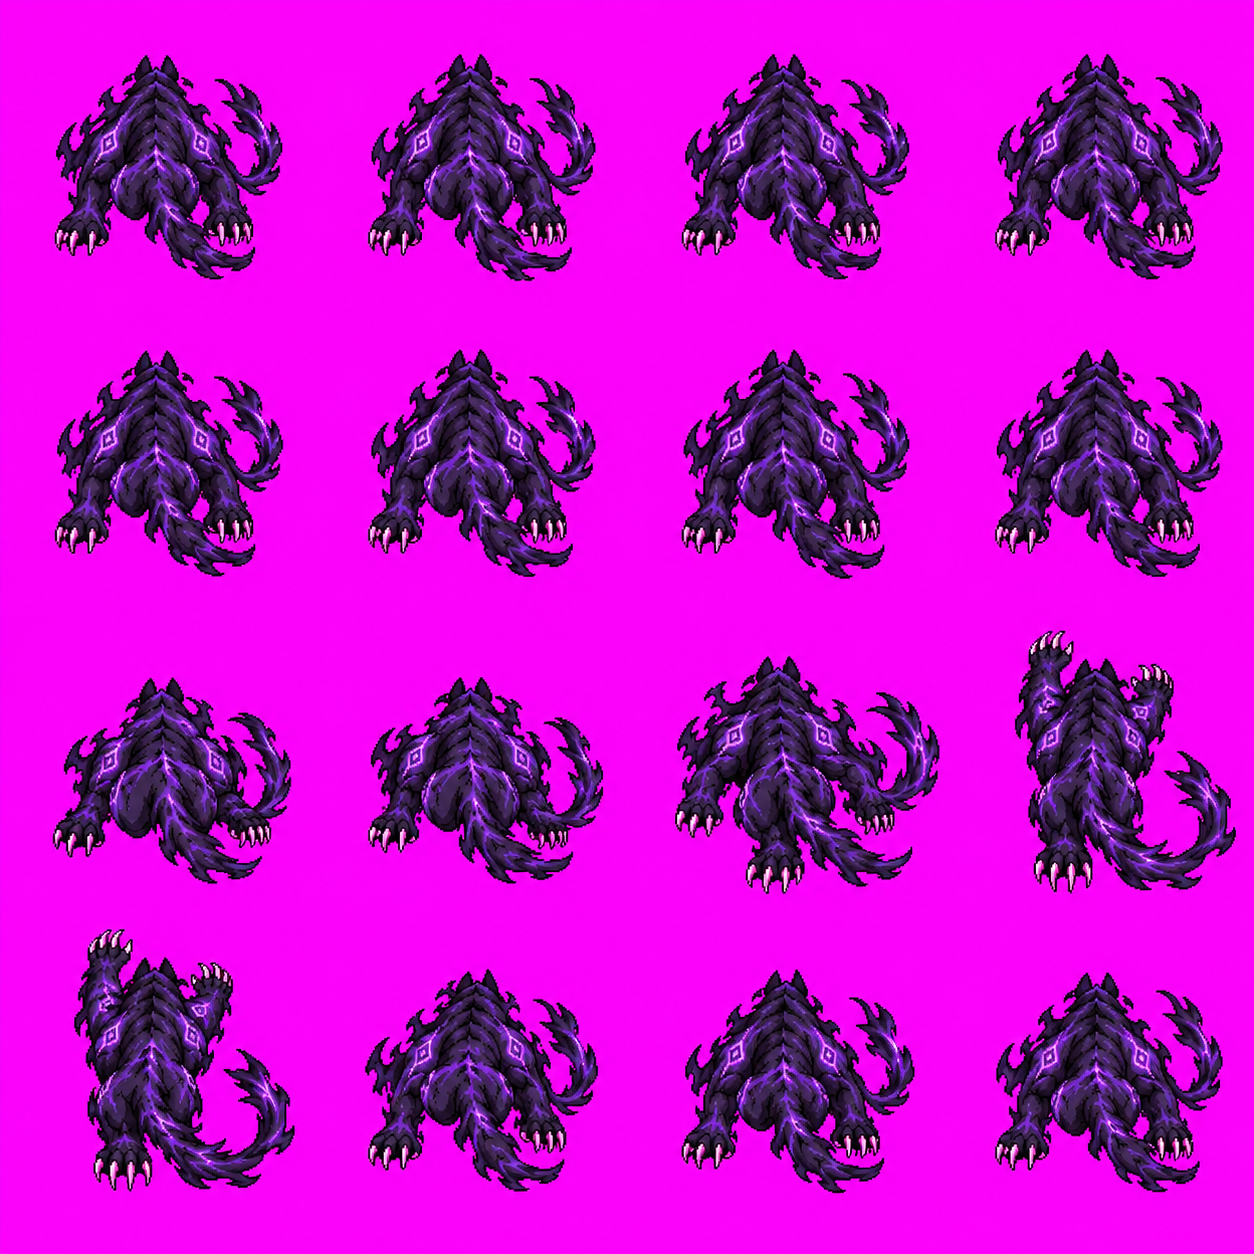
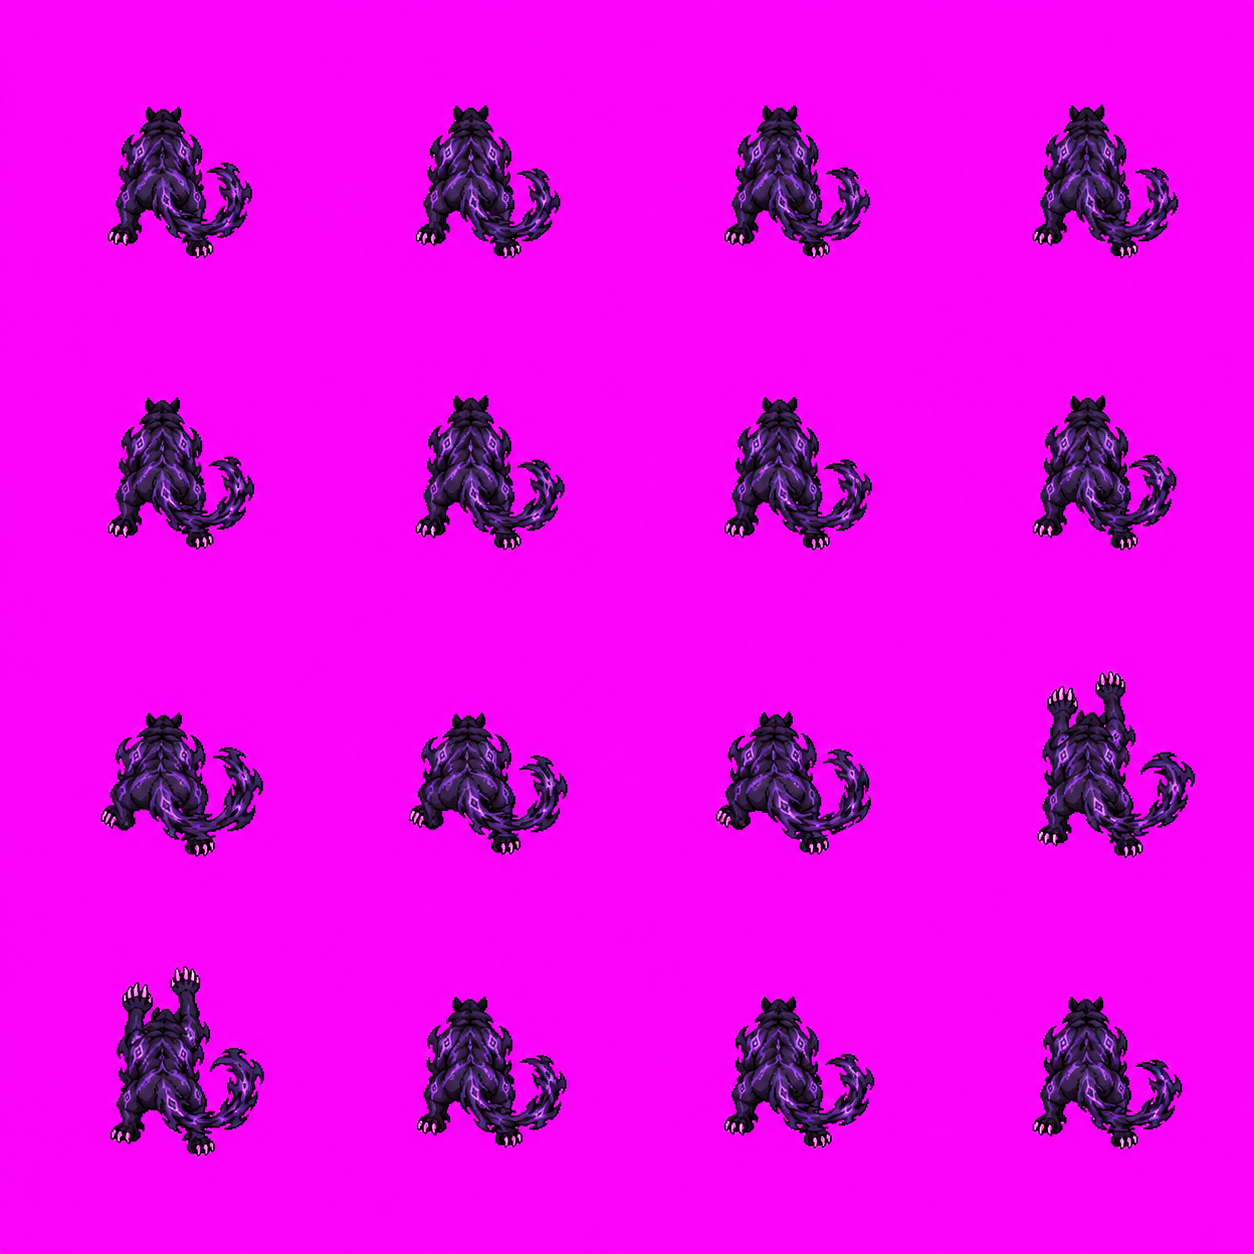
feat(art): nhập U Minh thân liền sau sửa khoảng cách hai hướng lưng

diff --git a/art/src/phap-tuong/u_minh_linh_mieu/NGUON.md b/art/src/phap-tuong/u_minh_linh_mieu/NGUON.md
@@ -1,25 +1,29 @@
-# Pháp tướng U Minh Linh Miêu — đang thực hiện (#1435)
+# Pháp tướng U Minh Linh Miêu (#1435)
 
-Part of #1435. PR nháp #1436; chưa nhập game, chưa đủ điều kiện review / gộp.
+Part of #1435. RAW checkpoint đã gộp ở #1436; PR #1478 nhập thân + glow + credits. Không tự đóng issue.
 
 ## Nguồn
 
-Codex builtin `image_gen.imagegen`, ngày 31/10/2026. Công cụ không trả model ID / seed. Ảnh sinh cho dự án theo điều khoản đầu ra OpenAI, không gán CC0. RAW giữ nguyên byte; SHA256 ở `SHA256.json`, prompt đầy đủ cạnh mỗi tờ.
+Codex builtin `image_gen.imagegen`, ngày 31/10/2026; không trả model ID / seed. Đầu ra AI theo điều khoản OpenAI, không gán CC0. RAW nguyên byte, prompt thật cạnh ảnh. SHA256 và kích thước native từng file ở `SHA256.json` / `native-sizes.json`.
 
-Tham chiếu hình, màu, motif: `shared/assets/sprites/vohonanim/u_minh_linh_mieu_{b,f}.png` và `shared/assets/sprites/vukhianim/u_minh_linh_mieu_{b,f}.png` trên main `3ae2cbb8427ec7535fedc8f1fb3262ab6e0c7bb3`. Đã xem cả bốn sheet, khi sinh đính kèm lớp f; các tờ từ đông nam trở đi thêm mẫu nam lượt 2. Không chép chỗ rỗng hình người. Báo tím đen đặc, vai nhô, vuốt dài, viền tím, không nộm.
+Tham chiếu hình, màu, motif: `shared/assets/sprites/vohonanim/u_minh_linh_mieu_{b,f}.png` và `shared/assets/sprites/vukhianim/u_minh_linh_mieu_{b,f}.png` trên main `3ae2cbb8427ec7535fedc8f1fb3262ab6e0c7bb3`. Đã xem cả bốn sheet; đính kèm lớp f, các hướng sau thêm mẫu nam lượt 2. Không dùng ảnh hỏng làm ảnh dẫn. Báo tím đen đặc, vai nhô, vuốt dài, viền tím; không nộm / khoảng rỗng hình người.
 
 ## Nhật ký lượt
 
-| Hướng | Số lượt đã dùng | File | Kết quả |
-|---|---|---|---|
-| s | 2 | `s-luot1.png`, `s.png` | Lượt 1 trả ảnh ngang 1448×1086, loại. Lượt 2 vuông 1254×1254, qua kiểm mép ô. |
-| se | 2 | `se-luot1.png`, `se.png` | Lượt 1 chạm mép ô. Lượt 2 chỉ sửa khoảng cách, qua kiểm mép ô. |
-| e | 2 | `e-luot1.png`, `e.png` | Lượt 1 chạm mép ô. Lượt 2 chỉ sửa khoảng cách, qua kiểm mép ô. |
-| ne | 1 | `ne.png` | Đúng lưng chếch phải; còn chạm mép ô, chưa chọn. |
-| n | 1 | `n.png` | Đúng mặt lưng; còn chạm mép ô, chưa chọn. |
+| Hướng | Đã dùng | Tờ chọn | Lượt loại | Kết quả |
+|---|---|---|---|---|
+| s | 2 | `s.png` | `s-luot1.png` | Lượt 1 trả ngang 1448×1086; lượt 2 vuông, qua cutter. |
+| se | 2 | `se.png` | `se-luot1.png` | Lượt 1 chạm ô; lượt 2 chỉ sửa khoảng cách, qua cutter. |
+| e | 2 | `e.png` | `e-luot1.png` | Lượt 1 chạm ô; lượt 2 chỉ sửa khoảng cách, qua cutter. |
+| ne | 2 | `ne.png` | `ne-luot1.png` | Lượt 1 chạm ô; lượt 2 chỉ sửa khoảng cách, lưng chếch phải, qua cutter. |
+| n | 2 | `n.png` | `n-luot1.png` | Lượt 1 chạm ô; lượt 2 chỉ sửa khoảng cách, mặt lưng không mắt, qua cutter. |
 
-Mỗi lần một job, chưa hướng nào vượt ba lượt. Các RAW vuông đều 1254×1254 mặc dù prompt yêu cầu 1024×1024. **Đang chờ quyết định có cho phép kích thước RAW này hay bắt buộc đúng 1024×1024.** Không tự đổi cỡ RAW hoặc coi đó là ảnh gốc 1024. Chưa sinh Lam Điện Bá Vương Long / Liệt Hỏa Thương Lang vì làm tuần tự từng võ hồn.
+Một job mỗi lần, không vượt ba lượt. Tờ chọn native 1254×1254 đã được orchestrator cho phép; giữ nguyên byte, không co giãn ngoài cutter. Tờ ngang lượt loại giữ nguyên để đối chiếu.
 
-## Còn phải làm
+## Nhập và kiểm
 
-Chốt kích thước RAW; sửa khoảng cách ne/n trong giới hạn lượt; ghép năm tờ bằng cutter, dựng glow từ sheet Codex, nhập bằng công cụ và sinh credits; kiểm đủ năm hướng thở / đánh TRONG GAME, không lóe trắng / cột tối, ne/n rõ ở lớp mờ; chạy check, CI và AO review. Chưa tuyên bố mỹ thuật thành phẩm đạt.
+Lệnh: `node tools/assets/phaptuong-sheet-cut.mjs art/src/phap-tuong/u_minh_linh_mieu shared/assets/sprites/phaptuong/u_minh_linh_mieu.png --no-despill`. Giữ viền tím, không dùng bộ lọc hồng riêng Lam Ngân Thảo. Kết quả 80 khung 160, 48 màu, hệ số 0,6028. Glow từ chính sheet Codex bằng `buildGlow` của `phuthe-to-phaptuong-lib.mjs`, màu #b06bff (phần dựng glow của CLI `--glow`, không ghi đè thân bằng bản phụ thể cũ). Recipe và hash thành phẩm ở `recipe.json`.
+
+Đăng ký `pt_u_minh_linh_mieu` / `_glow` bằng validate, thêm glow với `--keep-order`, credits do công cụ sinh. Xem trong game `/choi/?thu=phaptuong&vh=u_minh_linh_mieu&auto=1&danh=1`, đủ năm hướng thở / đánh, âm thanh tắt; gallery phiên AO885. Client flashHit trắng chung được sửa trong PR code riêng theo #1435 / #1457, không sửa server hay checker trong PR art này.
+
+Chạy lại `npm.cmd run check` và test pháp tướng client sau nhập; không tự merge.
